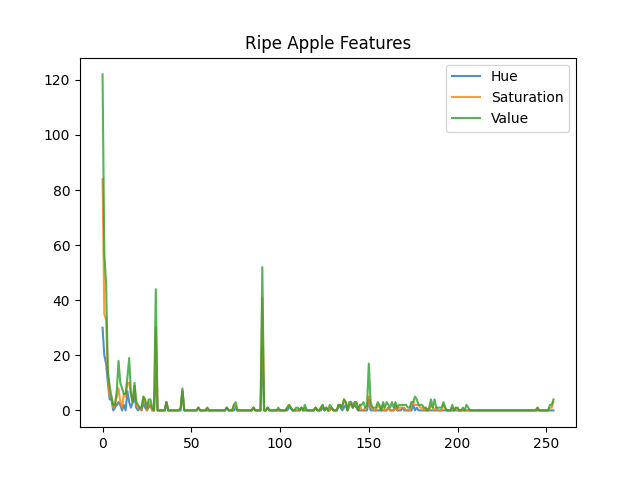
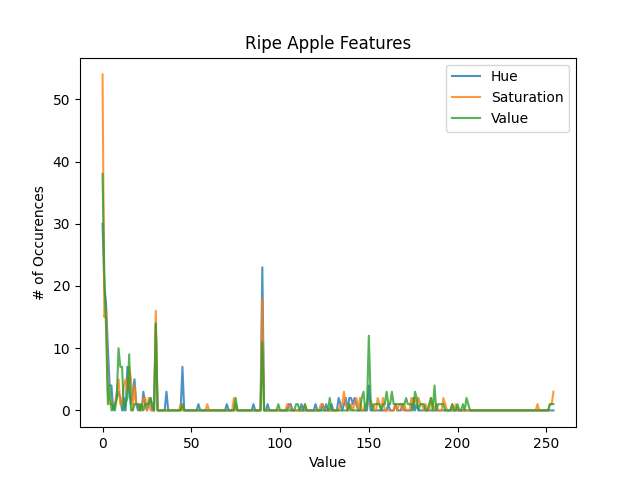
Update on Overleaf.

diff --git a/content/methodology/ripeness.tex b/content/methodology/ripeness.tex
@@ -5,11 +5,12 @@ Unable to find any suitable data sets showing a single apple species at differen
 In the Fruits360 data set~\cite{Fruit360}, we used crimson snow apples to represent ripe apples, and the data set's ``red 2'' apples to represent unripe apples. We  chose to use these since the two types had a very similar shape in their images, making the biggest variation between them the color which is what our model focuses on.
 
 \subsubsection{Model}
-The ripeness of an apple is determined by an SVM classifier model based on the HSV values of the apple image because it has been shown to be capable of having a high accuracy at fruit ripeness detection~\cite{HSVRipeness}.
+The ripeness of an apple is determined by an SVM classifier model based on the HSV values of the apple image because it has been shown to be capable of having a high accuracy at fruit ripeness detection~\cite{HSVRipeness}.\\
 The model takes an input feature vector based on the histogram calculation of an HSV image measuring $(100$pixels$\times100$pixels), Using OpenCV and python.
 Within OpenCV, hue is a number from 0 to 179, inclusive, and saturation and value are both numbers from 0 to 255, inclusive.
 These calculation values then get flattened down into a 1-dimensional feature vector storing 689 numbers. 
-This feature vector is used as input for our SVM classifier. Below is an example of a ripe apple, and its HSV histogram calculation values. The $y$ value of each point of each line is the amount of times that value of H, S, or V appears in the image.\\
+This feature vector is used as input for our SVM classifier.\\
+
 \begin{figure}[!htb]
     \fontsize{7}{5}\selectfont
     \centering
@@ -19,12 +20,14 @@ This feature vector is used as input for our SVM classifier. Below is an example
     {figures/ripeness_features.png}
     \label{Ripe Apple Example}
     \caption{
-        A ripe apple, and its associated HSV histogram calculations from the image preprocessing.
+        A ripe apple, and its associated HSV histogram calculations from the image processing. A larger y value represents that that Hue, Saturation, or Value was more common in the image.
     }
 \end{figure}
 
 \subsubsection{Improvements}
 Because we were unable to find data focused more specifically on detecting ripeness, 
-one good way to improve the performance of our project would be to gather picture of both ripe and unripe variants of whatever apple species the drone would be targeting. 
+one good way to improve the performance of our project would be to gather picture of both ripe and unripe variants of 
+whatever apple species the drone would be targeting. 
 To make this model production ready, it would likely require a new ripeness model to be trained for each species of apple targeted.
 Also, the model is currently trained on images of apples over a white background, for a production environment this would likely be much less effective.
+As with most models increasing the amount of images used for the training and testing would likely also improve it's performance.

diff --git a/content/conclusions.tex b/content/conclusions.tex
@@ -1,5 +1,6 @@
 \section{Conclusions}
 To reiterate what was shown throughout our paper, the goal of our research was to create a drone capable of multi-apple detection and enumeration.
-Although we weren'
-Although we experienced a decent amount of success using these model, we lacked the data, training time, and compute capacity to create a model that was consistently performant and accurate.
+Although we weren't able to create a product capable of accomplishing the initial goal, we were able to provide a ``proof of concept'' so to speak.
+The models that we used were consistently lightweight and relatively capable of performing with minimal training data. 
+Although we experienced a decent amount of success using these models, we lacked the data, training time, and compute capacity to create a model that was consistently performant and accurate.
 The code for the project can be found in~\cite{FruitFly}.

diff --git a/content/results.tex b/content/results.tex
@@ -63,3 +63,6 @@ The drone was able to detect and approach apples, as well as detect if they were
     }
     \label{fig:drone-haar-cascade}
 \end{figure}
+
+A drone-view demo of the robot can be found at \mbox{\url{https://youtu.be/sJOU8Dehln0}}, as well as an alternative view at \url{https://youtu.be/6oxaGR8jjL8}.
+Additionally, a stitched video with both videos somewhat synced can be found at \mbox{\url{https://youtu.be/YzhpWDfQMg0}}, and a playlist at \url{https://youtube.com/playlist?list=PL0leTwxvw46LurvJJF6e5QOCOxjKpmtiN}.
